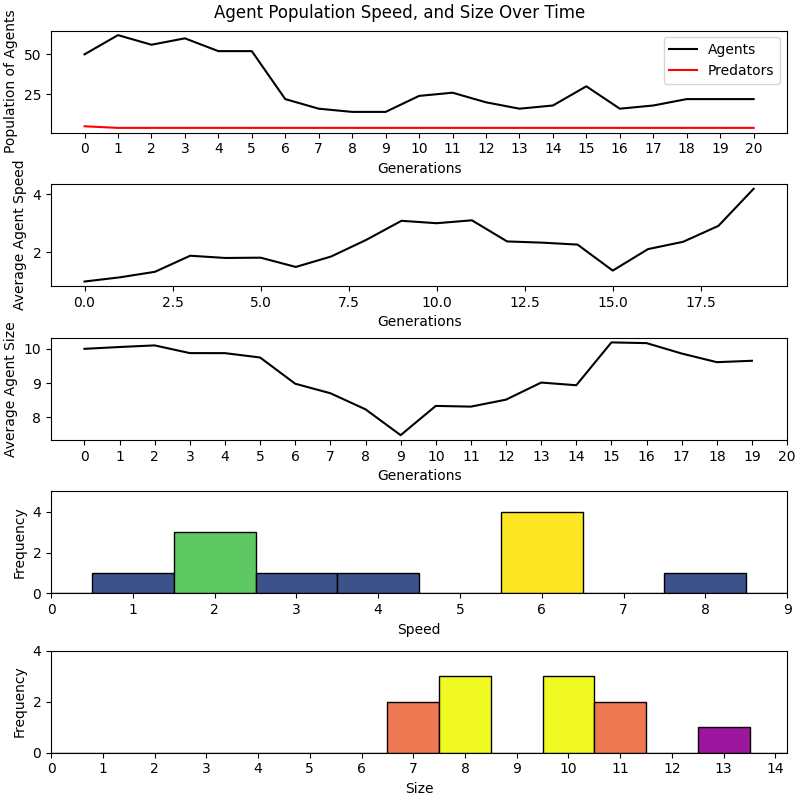
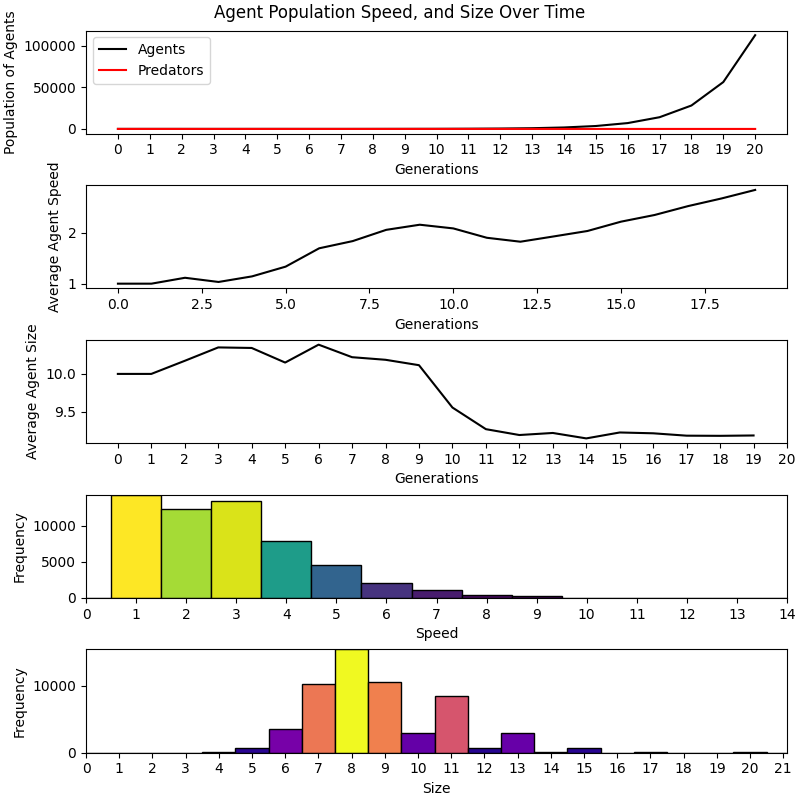
add hunt funtion for predator

diff --git a/natural_selection.py b/natural_selection.py
@@ -89,6 +89,7 @@ class Agent:
         if ((self.x, self.y) in self.environment.food_grid):
             self.environment.food_grid.remove((self.x, self.y))
             self.energy += self.food_reward
+            
 
 class Predator(Agent):
     def __init__(self, x, y, environment):
@@ -96,8 +97,14 @@ class Predator(Agent):
         self.speed = 2
         self.size = 15
         self.movement_cost = self.speed * (self.size ** 4)
-        self.food_reward = 100
-        self.stationary_penalty = 1500
+        self.hunt_reward = 100
+        self.stationary_penalty = 15000
+
+    def hunt(self, environment):
+        if ((self.x, self.y) in environment.agents):
+            environment.agents.remove((self.x, self.y))
+            self.energy += self.hunt_reward
+            print('eat!')
 
 # class Prey(Agent):
 #     def __init__(self, x, y, environment):
@@ -164,7 +171,7 @@ class Environment:
             satiation = []
             for i, agent in enumerate(self.agents):
                 agent.move_to_food()
-                [a.eat() for a in self.predators if (a.x, a.y) == (agent.x, agent.y)]
+                [a.hunt(self) for a in self.predators if (a.x, a.y) == (agent.x, agent.y)]
                 satiation.append(agent.satiated)
                 # print(i, len(self.positions), len(self.agents))
                 if len(self.positions) <= i:
@@ -228,25 +235,23 @@ class Environment:
         size_boost = {0.9:1, 1:8, 1.10:1}
         
         for _ in range(num_survivors_p):
-            # 50% predator have a chance of reproducing
-            parent = random.choice(self.predators)
-            # print(parent)
-            parent.x = random.randint(0, self.width)
-            parent.y = random.randint(0, self.height)
-            parent_speed = parent.speed
-            parent_size = parent.size
-            new_parent = Predator(parent.x, parent.y, self)
-            new_parent.speed = parent_speed
-            new_parent.size = parent_size
-            new_predators.append(new_parent)
-            speed = parent_speed + random.choices(list(speed_boost.keys()), weights=list(speed_boost.values()), k=1)[0]
-            size = parent_size * (random.choices(list(size_boost.keys()), weights=list(size_boost.values()), k=1)[0])
-            if size <= 0.1:
-                size = 0.1
-            child_agent = Predator(random.randint(0, self.width), random.randint(0, self.height), self)
-            child_agent.speed = speed
-            child_agent.size = size
-            new_predators.append(child_agent)
+            p_parent = random.choice(self.predators)
+            p_parent.x = random.randint(0, self.width)
+            p_parent.y = random.randint(0, self.height)
+            p_parent_speed = parent.speed
+            p_parent_size = parent.size
+            p_new_parent = Predator(parent.x, parent.y, self)
+            p_new_parent.speed = p_parent_speed
+            p_new_parent.size = p_parent_size
+            new_predators.append(p_new_parent)
+            p_speed = p_parent_speed + random.choices(list(speed_boost.keys()), weights=list(speed_boost.values()), k=1)[0]
+            p_size = p_parent_size * (random.choices(list(size_boost.keys()), weights=list(size_boost.values()), k=1)[0])
+            if p_size <= 0.1:
+                p_size = 0.1
+            p_child_agent = Predator(random.randint(0, self.width), random.randint(0, self.height), self)
+            p_child_agent.speed = p_speed
+            p_child_agent.size = p_size
+            new_predators.append(p_child_agent)
     
         self.agents = new_agents
         self.predators = new_predators
